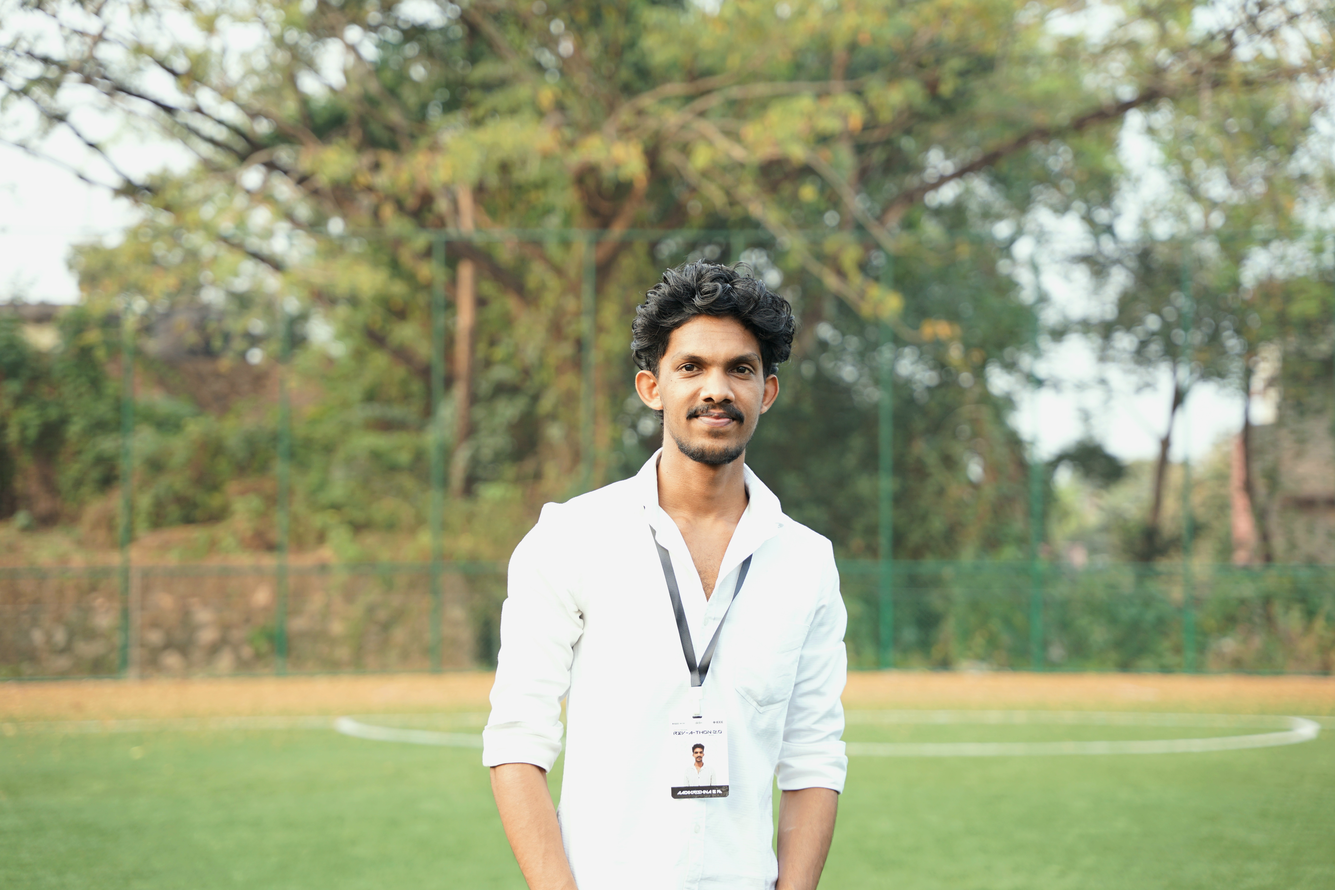
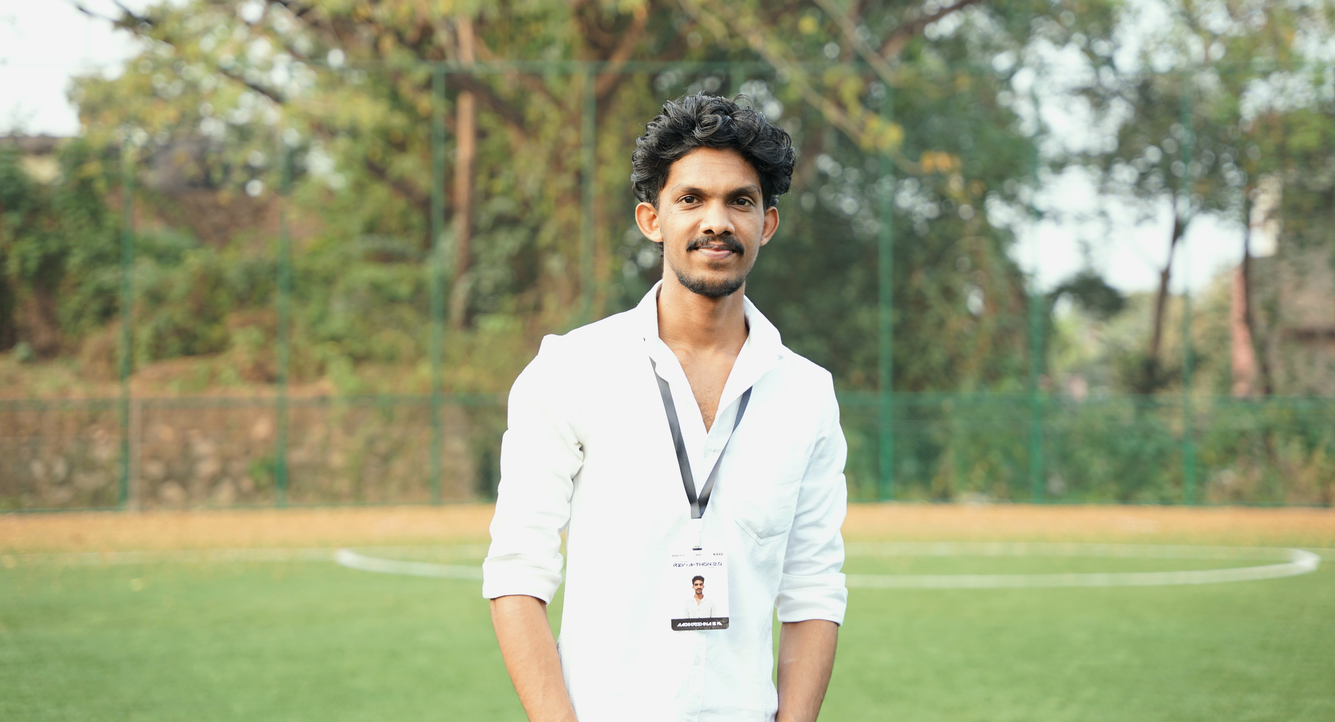
Update General Body member image positioning

diff --git a/src/pages/about/execom2026.js b/src/pages/about/execom2026.js
@@ -30,7 +30,8 @@ export default function ExeCom2020() {
 
           </Member>
           <Member>
-          <Image alt="" src ="/images/Excom_26/Aadikrishna_B_M.webp" />
+          <Image alt="" src ="/images/Excom_26/Aadikrishna_B_M.webp"
+          style={{ objectPosition: "center 5%" }} />
             <Name>Aadikrishna B M</Name>
 <Position>Secretary</Position>
 
@@ -66,7 +67,8 @@ export default function ExeCom2020() {
 
           </Member>
           <Member>
-          <Image alt="" src ="/images/Excom_26/Gouri_Rajesh_Pillai.webp" />
+          <Image alt="" src ="/images/Excom_26/Gouri_Rajesh_Pillai.webp"
+          style={{ objectPosition: "center 15%" }} />
             <Name>Gouri Rajesh Pillai</Name>
 <Position>Membership Development Chair</Position>
           </Member>
